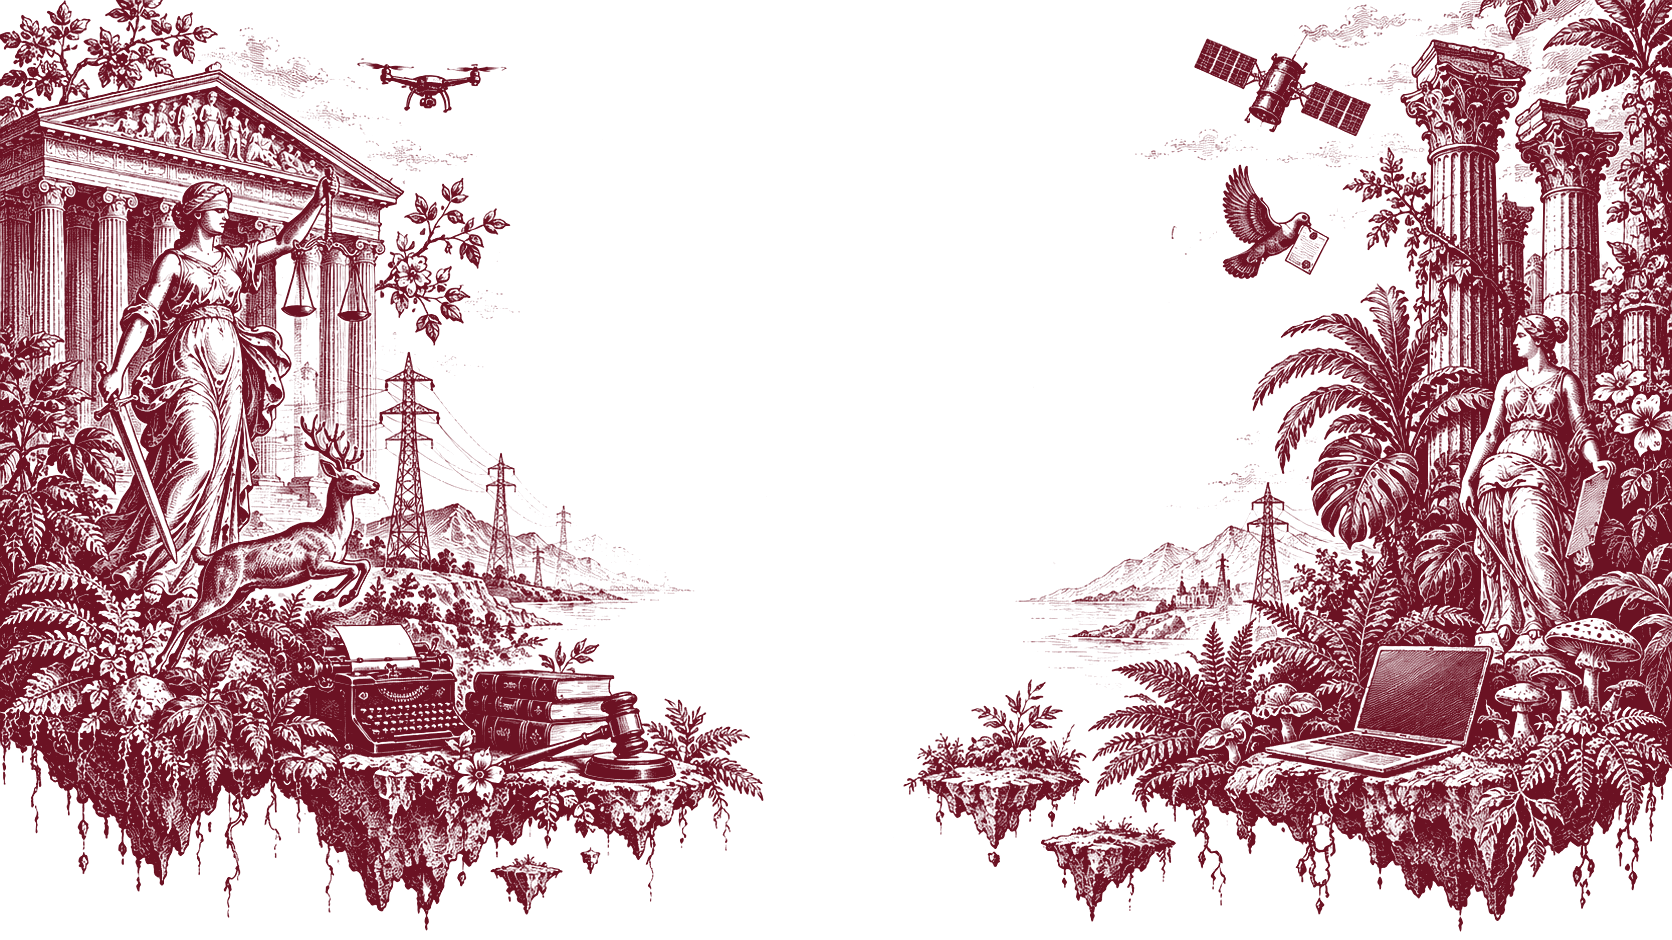
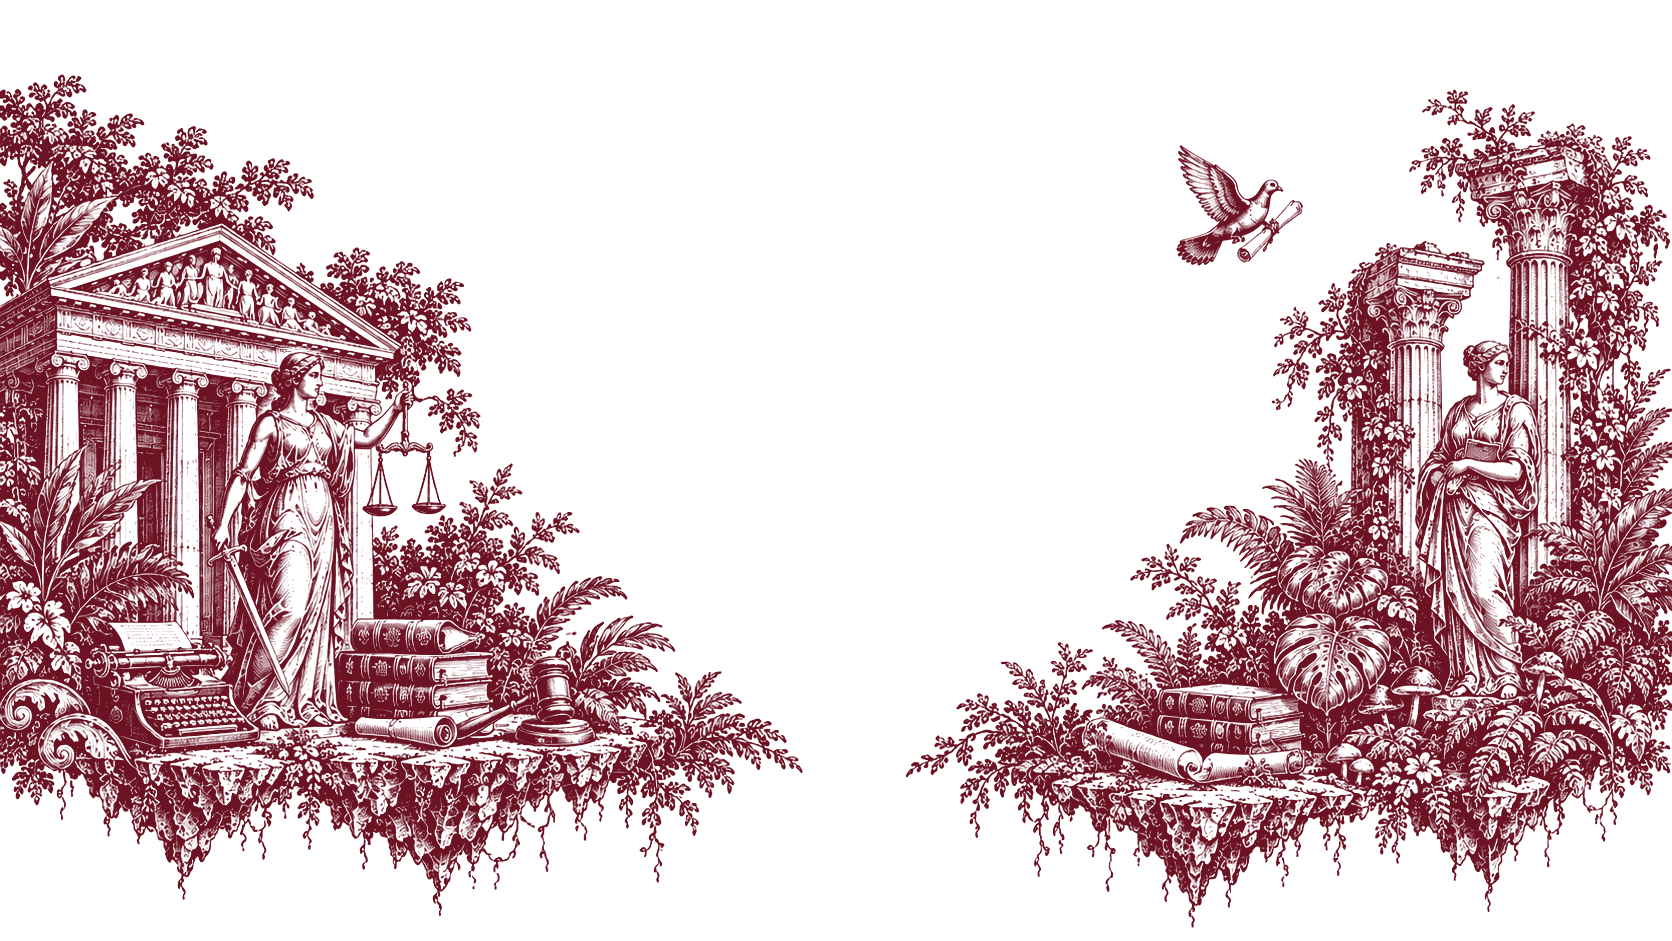
Nouvelle image d'accueil, hero remonté

diff --git a/index.html b/index.html
@@ -31,7 +31,7 @@
   <main>
     <!-- HERO -->
     <section class="hero" aria-labelledby="titre">
-      <img class="hero__art" src="assets/hero.jpg" alt="" aria-hidden="true" width="1672" height="940">
+      <img class="hero__art" src="assets/hero.jpg" alt="" aria-hidden="true" width="1672" height="941">
 
       <h1 id="titre" class="hero__title"><span class="sr">Lex Tripalium — </span>Les métiers du droit que l'on <em>n'enseigne pas</em></h1>
       <a class="hero__down" href="#manifeste" aria-label="Descendre vers le manifeste">↓</a>
@@ -61,7 +61,7 @@
           <li><b>0</b> robe noire obligatoire</li>
         </ul>
       </div>
-      <img class="manifeste__art" src="assets/manifeste-cream.png" alt="Gravure : un voyageur devant trois portes, un portail de tribunal, une porte de verre moderne et une porte envahie de lierre qui s'ouvre sur un chemin." width="1672" height="940" loading="lazy">
+      <img class="manifeste__art" src="assets/manifeste-cream.png" alt="Gravure : un voyageur devant trois portes, un portail de tribunal, une porte de verre moderne et une porte envahie de lierre qui s'ouvre sur un chemin." width="1672" height="941" loading="lazy">
     </section>
 
     <!-- MÉTIERS -->
@@ -117,7 +117,7 @@
 
     <!-- AGENDA -->
     <section class="agenda" id="agenda" aria-labelledby="t-agenda">
-      <img class="agenda__bg" src="assets/hero-wine.png" alt="" aria-hidden="true" width="1672" height="940" loading="lazy">
+      <img class="agenda__bg" src="assets/hero-wine.png" alt="" aria-hidden="true" width="1672" height="941" loading="lazy">
       <div class="wrap">
         <div class="head">
           <h2 id="t-agenda" class="big">Au programme <span class="arrow" aria-hidden="true">↗</span></h2>
@@ -169,7 +169,7 @@
           <p class="form__msg ui" id="form-msg" role="status" aria-live="polite"></p>
         </form>
       </div>
-      <img class="rejoindre__art" src="assets/footer-cream.png" alt="Gravure nocturne : un temple grec, Thémis et un cerf, une île flottante avec une bibliothèque, des pylônes, la mer, un satellite et des pigeons voyageurs." width="1672" height="940" loading="lazy">
+      <img class="rejoindre__art" src="assets/footer-cream.png" alt="Gravure nocturne : un temple grec, Thémis et un cerf, une île flottante avec une bibliothèque, des pylônes, la mer, un satellite et des pigeons voyageurs." width="1672" height="941" loading="lazy">
     </section>
   </main>
 

diff --git a/style.css b/style.css
@@ -99,7 +99,7 @@ section { position: relative; }
 
 .hero {
   position: relative;
-  height: max(100vh, calc(150px + 56.25vw)); height: max(100svh, calc(150px + 56.25vw)); min-height: 560px;
+  height: max(100vh, calc(30px + 56.25vw)); height: max(100svh, calc(30px + 56.25vw)); min-height: 560px;
   display: flex; flex-direction: column; align-items: center; justify-content: center; text-align: center;
   padding: 5.5rem var(--gutter) 3rem;
   overflow: hidden;
@@ -108,7 +108,7 @@ section { position: relative; }
   position: absolute; z-index: 0; left: 0; bottom: 0;
   width: 100%; height: auto; max-width: none;
   pointer-events: none; user-select: none;
-  -webkit-mask-image: linear-gradient(to bottom, transparent 0, #000 70px); mask-image: linear-gradient(to bottom, transparent 0, #000 70px);
+  -webkit-mask-image: linear-gradient(to bottom, transparent 0, #000 40px); mask-image: linear-gradient(to bottom, transparent 0, #000 40px);
 }
 .hero__title {
   position: relative; z-index: 1;
